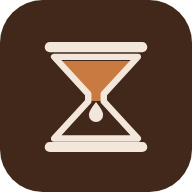
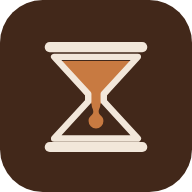
アイコンの一滴を、上の湯と地続きにする (#17)
・下の一滴を上と同じブラウンにした
・円錐からくびれを抜けて細く伸び、そのまま一滴へふくらむ、
  ひと続きの形にした。切れた雫ではなく、いま垂れているところ

Claude-Session: https://claude.ai/code/session_01AK1g5wZPx5s5VDHrQyhsVT

Changed region(s): [[0.4375, 0.5, 0.5625, 0.6875]]

diff --git a/app.js b/app.js
@@ -19,11 +19,11 @@
  *   8. 起動
  * ==================================================================== */
 
-const APP_VERSION = "2.4.1";
+const APP_VERSION = "2.4.2";
 
 /* ホームのロゴの下に #002 の形で出す、mainへマージした回数。
    マージのたびに1つ増やす（この見た目になるまでに何回積んだか） */
-const MERGE_COUNT = 16;
+const MERGE_COUNT = 17;
 
 /* ------------------------------------------------------------------ *
  * 1. 下ごしらえ

diff --git a/sw.js b/sw.js
@@ -1,7 +1,7 @@
 /* 台所で使うアプリなので、電波が届かない場所でも開けるようにしておく。
    ただし更新に気づかないのは困るので、オンラインならネットワークを
    先に見て、落ちたときだけキャッシュを返す */
-const CACHE = "coffeerence-shell-v15";
+const CACHE = "coffeerence-shell-v16";
 const SHELL = [
   "./index.html",
   "./styles.css",
